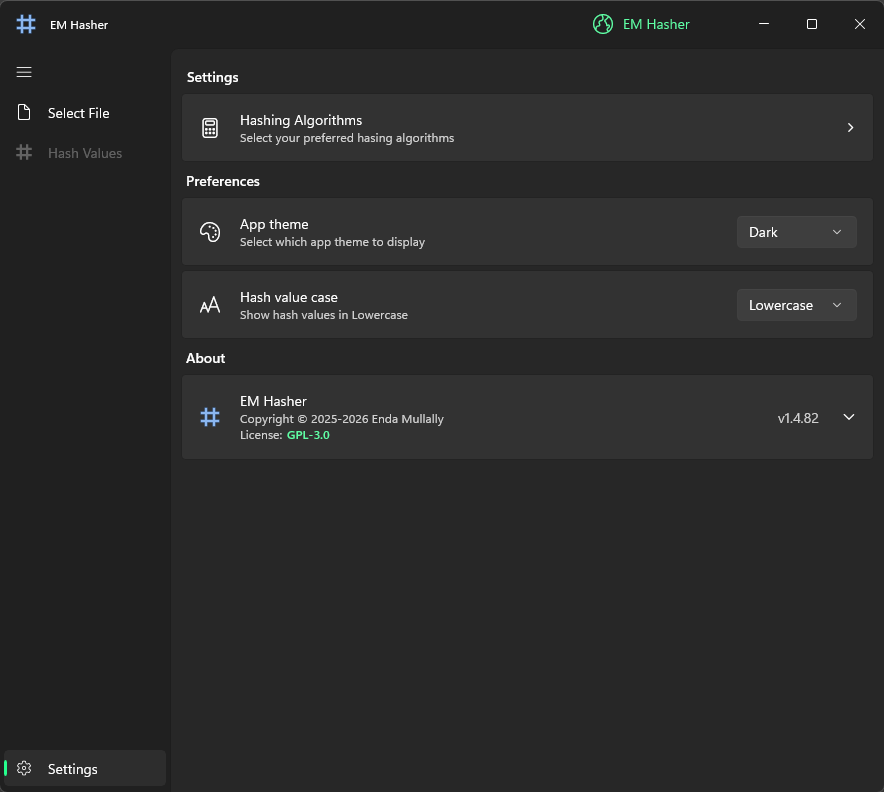
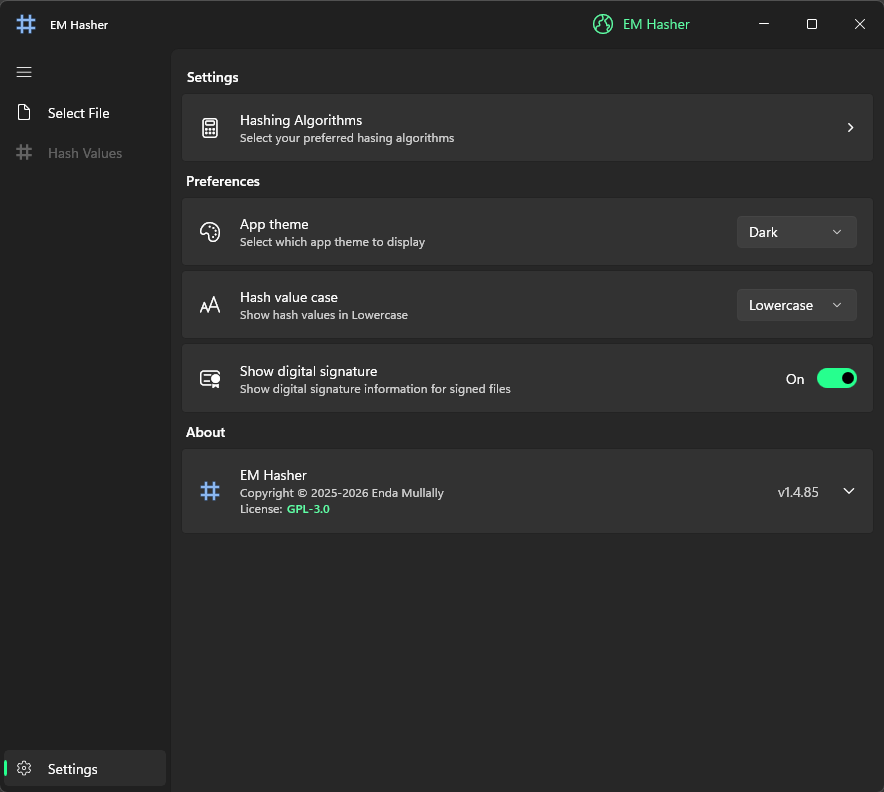
Mini release v1.4.85 (#110)
* v1.4.85

* Digital cert setting (#109)

* Part 1 of 2. Make loading of digital cert (authenticode) info optional via setting. Part 1 is the settings and UI binding bits. Part 2 will be dynamic loading when toggling ON post file selection and skipping the actual authenticode load when disabled.

* Part 2 of 2. Ensure the digital signature is loaded dynamically if setting is toggled post file secection.

* Improve navigation logic.

* UI: Settings page breadcrumb header cursor indicator when a settings subpage is open. Subtle ui clue to help users see how they can navigate back the the main settings page.

* v1.4.85 - Readme & store images

diff --git a/src/EM.Hasher/Views/Calculate.xaml b/src/EM.Hasher/Views/Calculate.xaml
@@ -114,12 +114,12 @@
                 Grid.Row="2"
                 Style="{StaticResource SettingsSectionHeaderTextBlockStyle}"
                 Text="Digital Signature"
-                Visibility="{x:Bind ViewModel.IsSigned, Converter={StaticResource BoolToVisibility}, Mode=OneWay}" />
+                Visibility="{x:Bind ViewModel.ShowAuthenticode, Converter={StaticResource BoolToVisibility}, Mode=OneWay}" />
 
             <controls:SettingsCard
                 Grid.Row="3"
                 Margin="0,0,0,4"
-                Visibility="{x:Bind ViewModel.IsSigned, Converter={StaticResource BoolToVisibility}, Mode=OneWay}">
+                Visibility="{x:Bind ViewModel.ShowAuthenticode, Converter={StaticResource BoolToVisibility}, Mode=OneWay}">
                 <controls:SettingsCard.Header>
                     <localcontrols:FileAuthenticodeInformationControl
                         IsLoading="{x:Bind ViewModel.IsLoadingAuthenticodeInfo, Mode=OneWay}"

diff --git a/src/EM.Hasher/Views/Settings.xaml b/src/EM.Hasher/Views/Settings.xaml
@@ -82,6 +82,13 @@
                 </ComboBox>
             </controls:SettingsCard>
 
+            <controls:SettingsCard
+                Description="Show digital signature information for signed files"
+                Header="Show digital signature"
+                HeaderIcon="{ui:FontIcon Glyph=&#xEB95;}">
+                <ToggleSwitch IsEnabled="{x:Bind ViewModel.IsAlgorithmSelectionInvalid, Converter={StaticResource BoolNegation}, Mode=OneWay}" IsOn="{x:Bind ViewModel.LoadCodeSignCert, Mode=TwoWay}" />
+            </controls:SettingsCard>
+
             <!--  'About' section RC tag hardcoded for now  -->
             <TextBlock Style="{StaticResource SettingsSectionHeaderTextBlockStyle}" Text="About" />
 

diff --git a/src/EM.Hasher/Views/SettingsShell.xaml b/src/EM.Hasher/Views/SettingsShell.xaml
@@ -26,7 +26,10 @@
             Margin="5,0,0,0"
             Orientation="Horizontal">
             <TextBlock
+                x:Name="SettingsBreadcrumbTitle"
                 Margin="1,8,0,7"
+                PointerEntered="OnSettingsBreadcrumbPointerEntered"
+                PointerExited="OnSettingsBreadcrumbPointerExited"
                 Style="{StaticResource BodyStrongTextBlockStyle}"
                 Tapped="OnSettingsBreadcrumbTapped"
                 Text="Settings" />

diff --git a/src/EM.Hasher/Controls/FileAuthenticodeInformationControl.xaml b/src/EM.Hasher/Controls/FileAuthenticodeInformationControl.xaml
@@ -56,7 +56,7 @@
                 Grid.Row="1"
                 Grid.Column="0"
                 Width="200"
-                Margin="0,10,0,0"
+                Margin="0,5,0,0"
                 HorizontalAlignment="Left"
                 IsIndeterminate="True"
                 Maximum="100"

diff --git a/src/EM.Hasher/ViewModels/CalculateViewModel.cs b/src/EM.Hasher/ViewModels/CalculateViewModel.cs
@@ -30,6 +30,7 @@ using EM.Hasher.Services.Authenticode;
 using EM.Hasher.Services.Explorer;
 using EM.Hasher.Services.File;
 using EM.Hasher.Services.Navigation;
+using EM.Hasher.Services.Settings;
 using EM.Hasher.ViewModels.Controls;
 
 namespace EM.Hasher.ViewModels;
@@ -39,7 +40,13 @@ public partial class CalculateViewModel : ObservableObject, INavigationAware
     private readonly IFileDetailsProvider _fileDetailsProvider;
     private readonly IAuthenticodeInfoProvider _authenticodeInfoProvider;
     private readonly IExplorerFileSelectorService _explorerFileSelectorService;
+    private readonly ISettingsProvider _settingsProvider;
     private string _selectedFileName = string.Empty;
+
+    // Tracks whether the authenticode info has already been loaded for the
+    // currently selected file, so toggling the setting off/on does not
+    // trigger an unnecessary reload.
+    private bool _authenticodeInfoLoaded = false;
 
     // Small files hash quickly even over a network, so only warn about
     // remote files once they are large enough for transfer latency to matter.
@@ -51,13 +58,22 @@ public partial class CalculateViewModel : ObservableObject, INavigationAware
         IFileDetailsProvider fileDetailsProvider,
         IAuthenticodeInfoProvider authenticodeInfoProvider,
         IExplorerFileSelectorService explorerFileSelectorService,
-        IList<FileHashControlViewModel> fileHashControlViewModels)
+        IList<FileHashControlViewModel> fileHashControlViewModels,
+        ISettingsProvider settingsProvider)
     {
         _fileDetailsProvider = fileDetailsProvider;
         _authenticodeInfoProvider = authenticodeInfoProvider;
         _explorerFileSelectorService = explorerFileSelectorService;
+        _settingsProvider = settingsProvider;
 
         FileHashControlViewModels = [with(fileHashControlViewModels)];
+
+        ShowAuthenticodeSetting = _settingsProvider.LoadCodeSignCert;
+
+        WeakReferenceMessenger.Default.Register<SettingsChangedMessage>(this, (r, m) =>
+        {
+            ShowAuthenticodeSetting = m.LoadCodeSignCert;
+        });
     }
 
     [ObservableProperty]
@@ -103,7 +119,14 @@ public partial class CalculateViewModel : ObservableObject, INavigationAware
     public partial string? Issuer { get; private set; } = string.Empty;
 
     [ObservableProperty]
+    [NotifyPropertyChangedFor(nameof(ShowAuthenticode))]
     public partial bool IsSigned { get; private set; } = false;
+
+    [ObservableProperty]
+    [NotifyPropertyChangedFor(nameof(ShowAuthenticode))]
+    public partial bool ShowAuthenticodeSetting { get; private set; } = false;
+
+    public bool ShowAuthenticode => ShowAuthenticodeSetting && IsSigned;
 
     [ObservableProperty]
     public partial bool IsTimeStamped { get; private set; } = false;
@@ -118,10 +141,23 @@ public partial class CalculateViewModel : ObservableObject, INavigationAware
     {
         if (!itsNew)
         {
+            // If we navigate back to the Calculate page, trigger Loading of auth info 1st
+            // and then any new calculations for any hash calculation controls that might
+            // now be enabled.
+            await LoadAuthenticodeInfoIfNeededAsync();
+
+            // Let the Hash calculation controls know that the Calculate page has
+            // been selected, so they can calculate hashes if needed (Settings changed).
+            WeakReferenceMessenger.Default.Send(
+                new CalculatePageSelectedMessage());
+
             return;
         }
 
+        // A new file has been selected, so reset and reload everything in sequence.
+
         _selectedFileName = selectedFileName;
+        _authenticodeInfoLoaded = false;
 
         ShowSlowFilePerformanceInfoBar = ShouldWarnSlowFilePerformance(_selectedFileName);
 
@@ -133,6 +169,9 @@ public partial class CalculateViewModel : ObservableObject, INavigationAware
 
         try
         {
+            WeakReferenceMessenger.Default.Send(
+                    new IsUiBusyMessage(true));
+
             await LoadFileInfoAsync();
 
             await LoadAuthenticodeInfoAsync();
@@ -150,14 +189,16 @@ public partial class CalculateViewModel : ObservableObject, INavigationAware
 
     public async Task OnNavigatedToAsync(object parameter)
     {
-        if (parameter == null)
-        {
-            return;
-        }
-
         if (parameter is FilePickedMessage filePickedMessage)
         {
             await LoadSelectedFileAsync(filePickedMessage.FileName, filePickedMessage.ItsNew);
+        }
+        else
+        {
+            // The calculate page is being navigated back to without a
+            // new file being selected. If authenticode info needs to be loaded or
+            // new hashs are enabled based on new settings, then do it.
+            await LoadSelectedFileAsync(_selectedFileName, false);
         }
     }
 
@@ -259,13 +300,36 @@ public partial class CalculateViewModel : ObservableObject, INavigationAware
         IsLoadingAuthenticodeInfo = IsSigned = true;
     }
 
+    private async Task LoadAuthenticodeInfoIfNeededAsync()
+    {
+        try
+        {
+            await LoadAuthenticodeInfoAsync();
+        }
+        catch (Exception)
+        {
+            // ignore
+        }
+    }
+
     private async Task LoadAuthenticodeInfoAsync()
     {
-        SetAuthenticodeLoadingState(Res.GetLocalized("LoadingAuthenticodeDetails"));
+        if (!ShowAuthenticodeSetting ||
+            _authenticodeInfoLoaded ||
+            string.IsNullOrWhiteSpace(_selectedFileName))
+        {
+            return;
+        }
 
+        WeakReferenceMessenger.Default.Send(
+            new IsUiBusyMessage(true));
+
+        SetAuthenticodeLoadingState(Res.GetLocalized("LoadingAuthenticodeDetails"));
         var signingInfo = await _authenticodeInfoProvider.GetAuthenticodeInfoAsync(_selectedFileName);
 
         IsLoadingAuthenticodeInfo = false; // Hide to loading state (Authenticode Info)
+
+        _authenticodeInfoLoaded = true;
 
         if (signingInfo != null)
         {
@@ -275,6 +339,9 @@ public partial class CalculateViewModel : ObservableObject, INavigationAware
             IsTimeStamped = signingInfo.IsTimeStamped;
             SigningTime = signingInfo.SigningTime;
         }
+
+        WeakReferenceMessenger.Default.Send(
+            new IsUiBusyMessage(false));
     }
 
     [RelayCommand]

diff --git a/src/EM.Hasher/ViewModels/SettingsViewModel.cs b/src/EM.Hasher/ViewModels/SettingsViewModel.cs
@@ -51,6 +51,12 @@ public partial class SettingsViewModel : ObservableObject
     }
 
     [ObservableProperty]
+    public partial bool LoadCodeSignCert
+    {
+        get; set;
+    }
+
+    [ObservableProperty]
     [NotifyPropertyChangedFor(nameof(IsAlgorithmSelectionInvalid))]
     public partial bool IsBlake3Enabled
     {
@@ -150,6 +156,7 @@ public partial class SettingsViewModel : ObservableObject
             : false;
         IsUppercaseHashValues = _settingsProvider.IsUppercaseHashValues;
         ThemeSelectedIndex = _settingsProvider.SelectedTheme;
+        LoadCodeSignCert = _settingsProvider.LoadCodeSignCert;
 
         _currentWindow = App.MainWindow!;
         VersionDescription = _appVersion.GetVersionDescription();
@@ -183,7 +190,7 @@ public partial class SettingsViewModel : ObservableObject
         }
 
         WeakReferenceMessenger.Default.Send(
-          new SettingsChangedMessage(_hashAlgorithmsEnabled, value));
+          new SettingsChangedMessage(_hashAlgorithmsEnabled, value, _settingsProvider.LoadCodeSignCert));
 
         _settingsProvider.IsUppercaseHashValues = value;
     }
@@ -290,6 +297,19 @@ public partial class SettingsViewModel : ObservableObject
             Sha3_512HashCalculator.IsAvailable && (_settingsProvider.IsSha3_512_Enabled = IsSha3_512Enabled);
         
         WeakReferenceMessenger.Default.Send(
-           new SettingsChangedMessage(_hashAlgorithmsEnabled, IsUppercaseHashValues));
+           new SettingsChangedMessage(_hashAlgorithmsEnabled, IsUppercaseHashValues, _settingsProvider.LoadCodeSignCert));
+    }
+
+    partial void OnLoadCodeSignCertChanged(bool value)
+    {
+        if (!_initialized)
+        {
+            // We don't want to send messages until the ViewModel is fully initialized
+            return;
+        }
+        _settingsProvider.LoadCodeSignCert = value;
+
+        WeakReferenceMessenger.Default.Send(
+           new SettingsChangedMessage(_hashAlgorithmsEnabled, IsUppercaseHashValues, _settingsProvider.LoadCodeSignCert));
     }
 }

diff --git a/src/EM.Hasher/Views/SettingsShell.xaml.cs b/src/EM.Hasher/Views/SettingsShell.xaml.cs
@@ -49,6 +49,24 @@ public sealed partial class SettingsShell : Page
         }
     }
 
+    private void OnSettingsBreadcrumbPointerEntered(object sender, Microsoft.UI.Xaml.Input.PointerRoutedEventArgs e)
+    {
+        if (UiStateViewModel.IsSettingsSubPageVisible)
+        {
+            // UI: If a settings sub page is visible show a hand hover cursor to indicate the
+            // breadcrumb is clickable to navigate back to the main Settings page
+            ProtectedCursor =
+                Microsoft.UI.Input.InputSystemCursor.Create(Microsoft.UI.Input.InputSystemCursorShape.Hand);
+        }
+    }
+
+    private void OnSettingsBreadcrumbPointerExited(object sender, Microsoft.UI.Xaml.Input.PointerRoutedEventArgs e)
+    {
+        // UI: If a settings sub page is not visible show an ordinary cursor again.
+        ProtectedCursor =
+            Microsoft.UI.Input.InputSystemCursor.Create(Microsoft.UI.Input.InputSystemCursorShape.Arrow);
+    }
+
     private void SettingsFrame_Navigated(object sender, NavigationEventArgs e)
     {
         // Update breadcrumb state based on current page

diff --git a/src/EM.Hasher/Messages/IsUiBusyMessage.cs b/src/EM.Hasher/Messages/IsUiBusyMessage.cs
@@ -1,6 +1,6 @@
 /*
  * EM Hasher
- * Copyright © 2025-2026 Enda Mullally (em.apps@outlook.ie)
+ * Copyright © 2026 Enda Mullally (em.apps@outlook.ie)
  *
  * This program is free software: you can redistribute it and/or modify
  * it under the terms of the GNU General Public License as published by
@@ -16,18 +16,9 @@
  * along with this program.  If not, see <http://www.gnu.org/licenses/>.
  */
 
-using System.Collections.Generic;
+namespace EM.Hasher.Messages;
 
-namespace EM.Hasher.Messages.UI;
-
-public class SettingsChangedMessage(
-    Dictionary<string, bool> hashAlgorithmsEnabled,
-    bool isUppercaseHashValues,
-    bool loadCodeSignCert)
+public class IsUiBusyMessage(bool isBusy)
 {
-    public Dictionary<string, bool> HashAlgorithmsEnabled { get; init; } = hashAlgorithmsEnabled;
-
-    public bool IsUppercaseHashValues { get; init; } = isUppercaseHashValues;
-
-    public bool LoadCodeSignCert { get; init; } = loadCodeSignCert;
+    public bool IsBusy { get; init; } = isBusy;
 }

diff --git a/src/EM.Hasher/Views/Shell.xaml.cs b/src/EM.Hasher/Views/Shell.xaml.cs
@@ -132,16 +132,7 @@ public sealed partial class Shell : Page
                         // If we navigate away from Home, clear any FileDrop error messages
                         WeakReferenceMessenger.Default.Send(
                             new DropFileErrorMessage(false, string.Empty));
-                    }
-
-                    if (pageType == typeof(Calculate))
-                    {
-                        // If we navigate to the Calculate page, trigger hash calculation for any hash
-                        // calculation controls that might now be enabled, which are listening for this
-                        // message.
-                        WeakReferenceMessenger.Default.Send(
-                            new CalculatePageSelectedMessage());
-                    }
+                    }                    
 
                     contentFrame.Navigate(pageType);
                 }

diff --git a/src/EM.Hasher.Tests/Messages/UI/SettingsChangedMessageTests.cs b/src/EM.Hasher.Tests/Messages/UI/SettingsChangedMessageTests.cs
@@ -18,6 +18,7 @@ public class SettingsChangedMessageTests
                 { "SHA-256", true },
                 { "SHA-512", true },
             },
+            true,
             true);
 
         // Assert
@@ -25,5 +26,6 @@ public class SettingsChangedMessageTests
         sut.HashAlgorithmsEnabled["SHA-256"].Should().BeTrue();
         sut.HashAlgorithmsEnabled["SHA-512"].Should().BeTrue();
         sut.IsUppercaseHashValues.Should().BeTrue();
+        sut.LoadCodeSignCert.Should().BeTrue();
     }
 }

diff --git a/src/EM.Hasher.Tests/Messages/IsUiBusyMessageTests.cs b/src/EM.Hasher.Tests/Messages/IsUiBusyMessageTests.cs
@@ -1,0 +1,22 @@
+using EM.Hasher.Messages;
+using FluentAssertions;
+using Microsoft.VisualStudio.TestTools.UnitTesting;
+
+namespace EM.Hasher.Tests.Messages;
+
+[TestClass]
+public class IsUiBusyMessageTests
+{
+    [TestMethod]
+    public void IsUiBusyMessage_Works()
+    {
+        // Arrange
+        var isBusy = true;
+
+        // Act
+        var sut = new IsUiBusyMessage(isBusy);
+
+        // Assert
+        sut.IsBusy.Should().Be(isBusy);
+    }
+}

diff --git a/src/EM.Hasher/ViewModels/Controls/FileHashControlViewModel.cs b/src/EM.Hasher/ViewModels/Controls/FileHashControlViewModel.cs
@@ -92,7 +92,7 @@ public partial class FileHashControlViewModel : ObservableObject
             }
         });
 
-        WeakReferenceMessenger.Default.Register<CalculatePageSelectedMessage>(this, (r, m) =>
+        WeakReferenceMessenger.Default.Register<CalculatePageSelectedMessage>(this, async (r, m) =>
         {
             // The Calculate page has been re-selected, check
             // if we need to start the hash calculation again.
